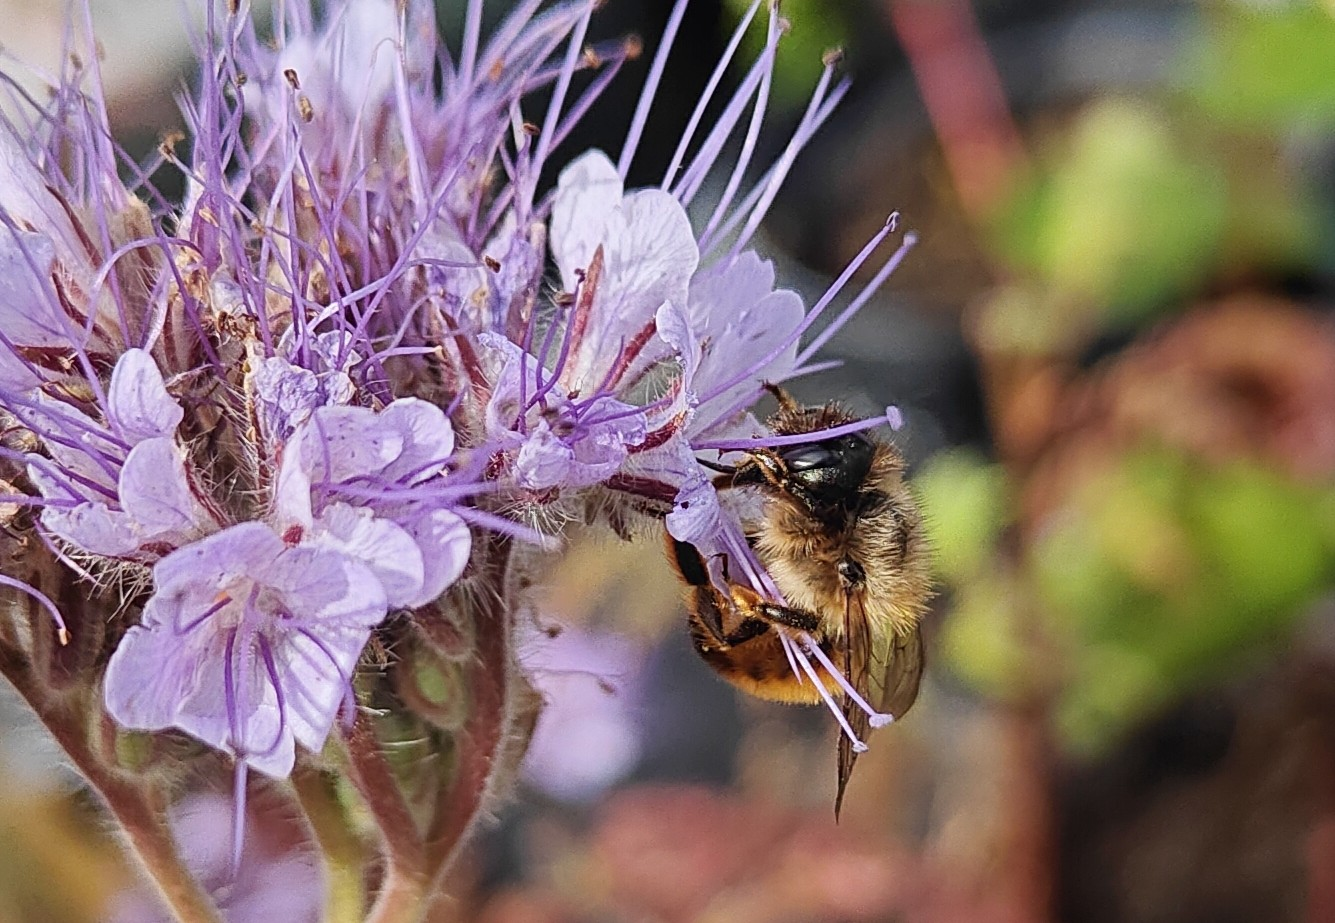
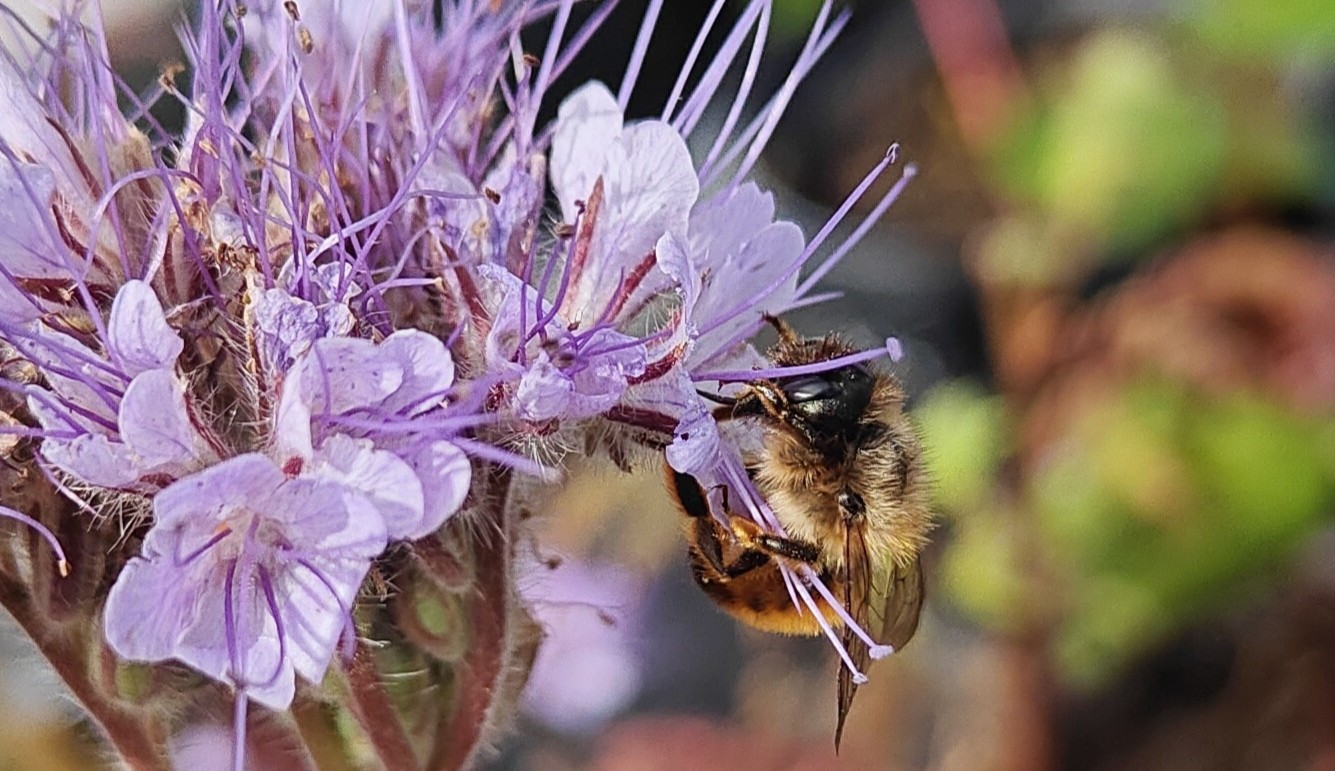
15.41

diff --git a/index.html b/index.html
@@ -110,7 +110,7 @@ ul.task-list li input[type="checkbox"] {
 <section id="the-impact-of-nutritional-stress-on-bee-resilience-to-insecticide-exposure" class="level3">
 <h3 class="anchored" data-anchor-id="the-impact-of-nutritional-stress-on-bee-resilience-to-insecticide-exposure">The Impact of Nutritional Stress on Bee Resilience to Insecticide Exposure</h3>
 <p>MSc Research · UCD · Wildlife Conservation &amp; Management</p>
-<p><img src="bee2.JPG" class="img-fluid" style="display:block; margin:0 auto 5px auto; padding:8px; background:white;" alt="Osmia." width="800"></p>
+<p><img src="bee.JPG" class="img-fluid" style="display:block; margin:0 auto 5px auto; padding:8px; background:white;" alt="osmia." width="795"></p>
 <div style="text-align:center; font-size:0.8em; color:#666; margin-bottom:20px;">
 <p><em>Osmia bicornis foraging on phacelia tanacetifolia. Photograph © Yasmin Bonner.</em></p>
 </div>
